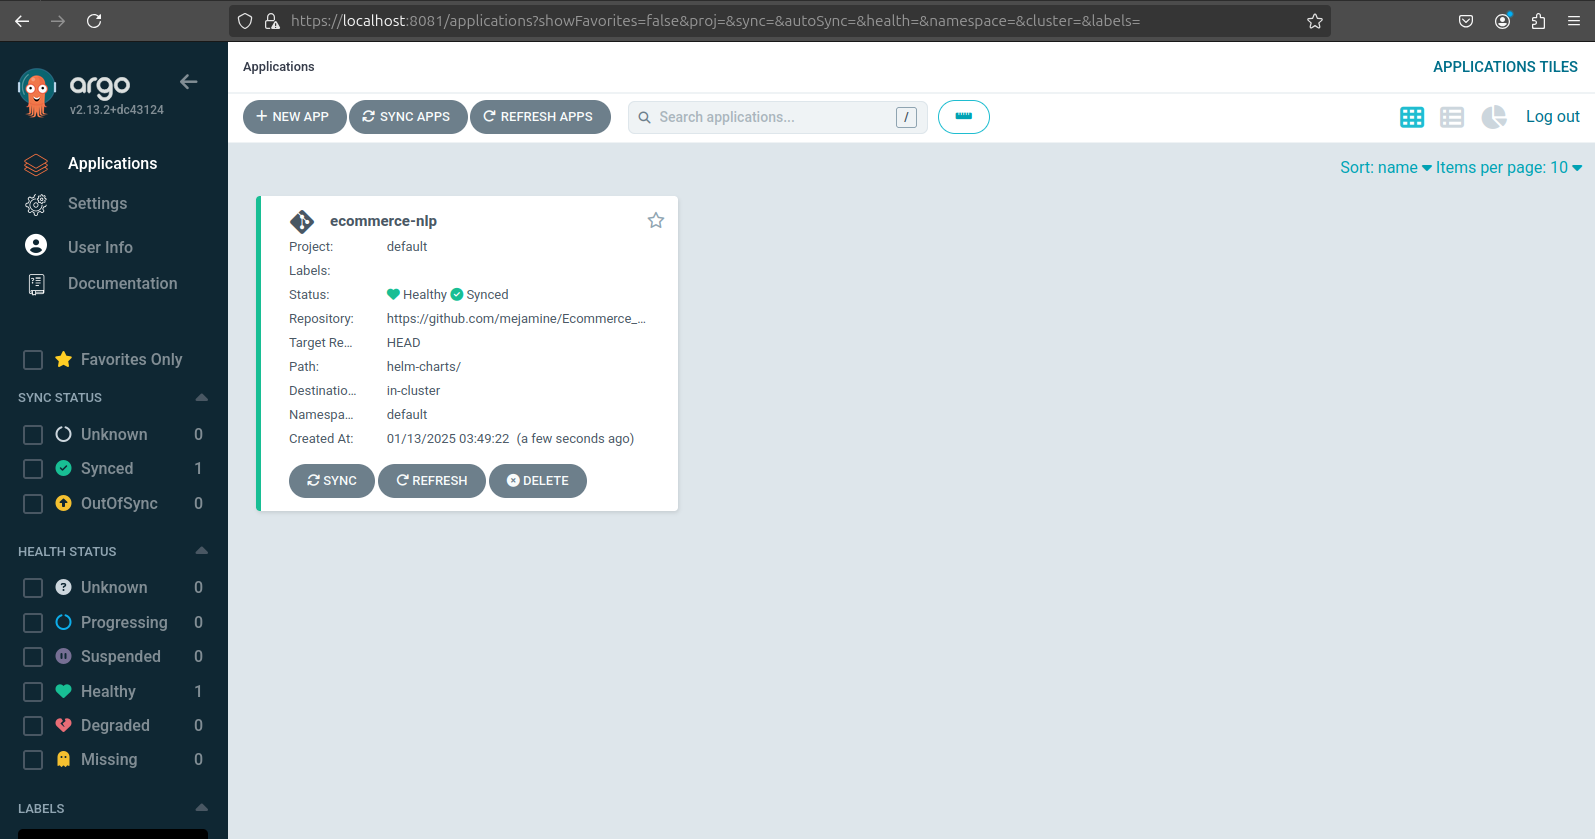
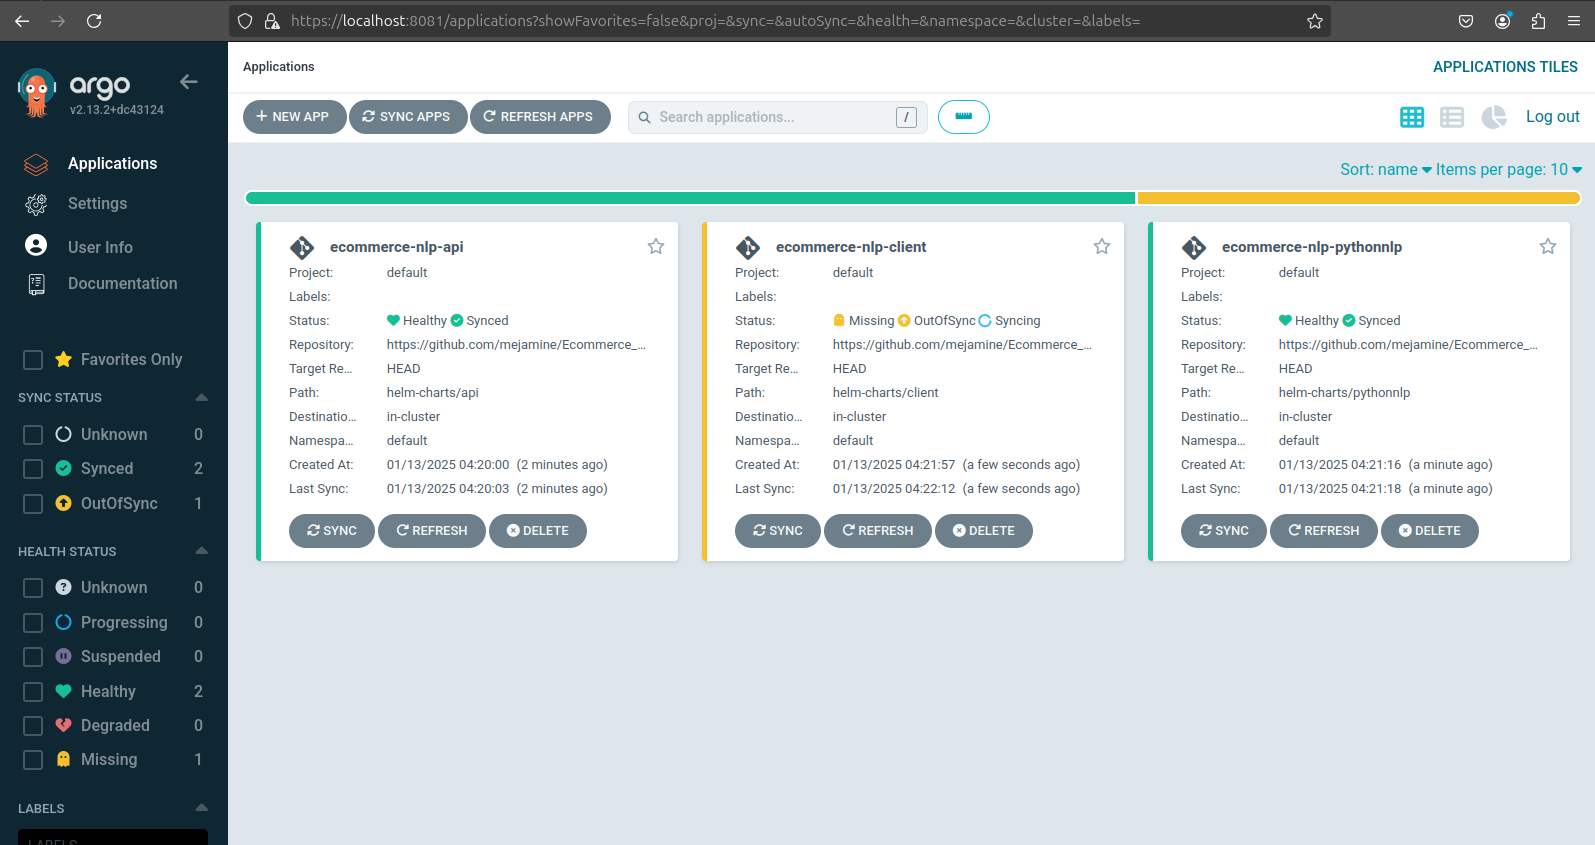
update

diff --git a/Readme.md b/Readme.md
@@ -289,11 +289,25 @@ the next step is CD part :
 
 ![argo8](./images/argo8.png)          
 
-            and then create an app where we define the git repo url and the path for helm charts ect 
+            and then create an app for every service where we define the git repo url and the path for helm charts ect 
 
             here's the result that need to be shown : 
 
-![argo9](./images/argo9.png)     
+            global : 
+
+![argo9](./images/argo9.png)   
+
+            example api : 
+
+![argo10](./images/argo10.png)  
+
+            so to access the application we need to modify the /etc/hosts and ad the following line :
+
+                127.0.0.1 ecommerce-nlp-api.local
+
+
+
+
 
             
 
